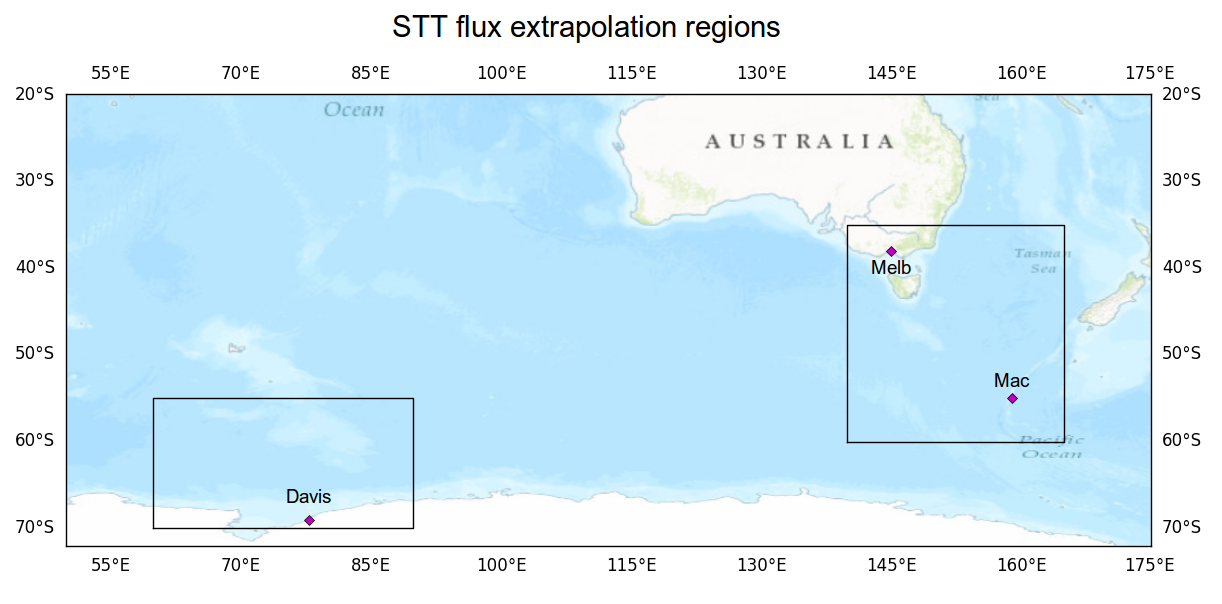
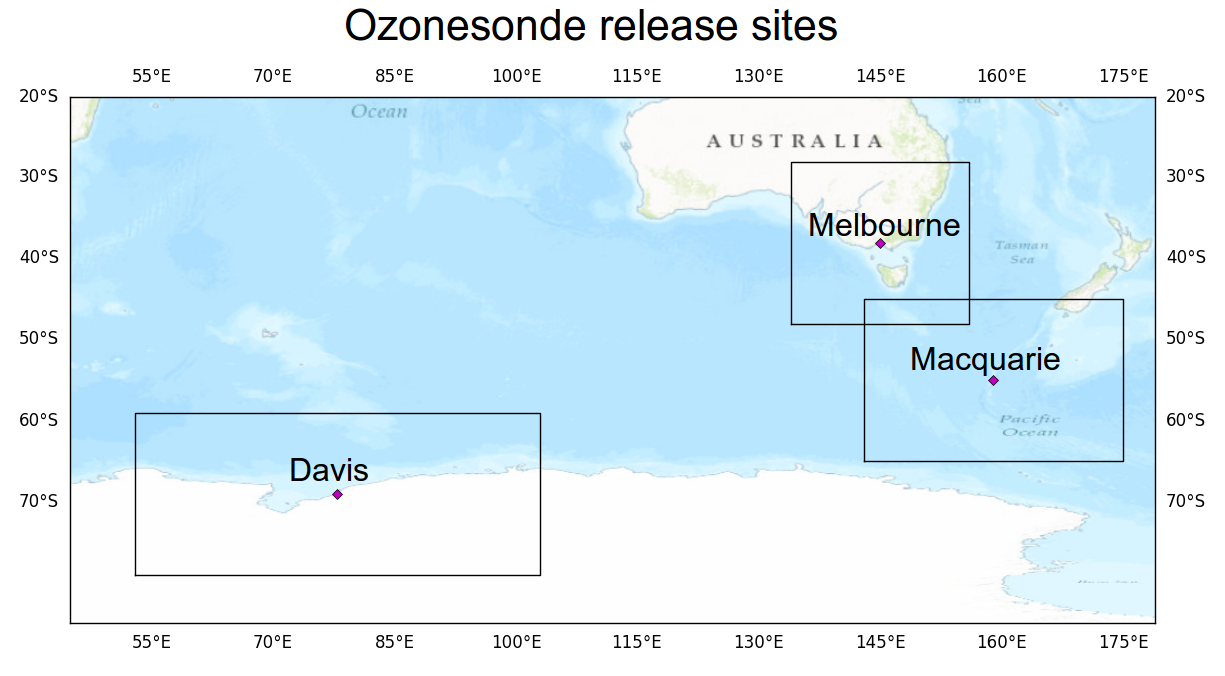
Updated Comparison region and description

Changed region(s): [[0.0, 0.0894, 0.9951, 0.9536], [0.2799, 0.0, 0.6841, 0.0596], [0.1866, 0.447, 0.2799, 0.5364]]

diff --git a/OzonePaper.tex b/OzonePaper.tex
@@ -134,7 +134,14 @@
     Standardised procedures are followed when constructing, transporting, and releasing the ozonesondes \url{http://www.ndsc.ncep.noaa.gov/organize/protocols/appendix5/}.
     Ozonesondes are estimated to provide around 2\% precision in the stratosphere, which improves at lower altitudes, and ozonesondes have been shown to be accurate to within 5\% when the correct procedures are followed \citep{Smit2007}.
     
-    Ozonesondes are launched approximately weekly from Melbourne (38$^{\circ}$ S, 145$^{\circ}$ E), Macquarie Island (55$^{\circ}$ S, 159$^{\circ}$ E) and Davis (69$^{\circ}$ S, 78$^{\circ}$ E). 
+    \begin{figure}
+    % Figure 1: Comparison region made in map script
+      \includegraphics[width=10cm]{figures/ComparisonRegions.png}
+      \caption{Ozonesonde release sites and the regions which will be used to examine STT effect on tropospheric ozone levels.}
+      \label{fig:ComparisonRegion}
+    \end{figure}
+    
+    Ozonesondes are launched approximately weekly from Melbourne (38$^{\circ}$ S, 145$^{\circ}$ E), Macquarie Island (55$^{\circ}$ S, 159$^{\circ}$ E) and Davis (69$^{\circ}$ S, 78$^{\circ}$ E), as shown in Fig. \ref{fig:ComparisonRegion}. 
     Melbourne, a major city in Victoria, Australia is in the far south eastern section of the Australian mainland, actual releases are north of the central business district in the Broadmeadows suburb.
     Macquarie island is isolated from the Australian mainland, situated in the remote southern ocean and unlikely to be affected by any local anthropogenic pollution events.
     Davis is on the coast of Antarctica and also unlikely to experience the effects of local pollution.
@@ -182,7 +189,7 @@
     %The tropopause is higher on days with an STT event at all during winter and spring at Davis.
 
     \begin{figure}[t] 
-    % Figure 1
+    % Figure 2
     % figure produced in seasonal_tropopause in Examine_stations.py
       \includegraphics[width=10cm]{figures/tpheights.png}
       \caption{%
@@ -198,7 +205,7 @@
     This seasonality at the high latitude sites is driven by a decrease in photochemical destruction under the reduced radiation conditions around polar night. % (TODO: read and cite S. Oltmans antarctic papers - re Andrews comment)... Can't find paper.
     
     \begin{figure}[t]
-      %Figure 2
+      %Figure 3
       %Created by seasonal_tropozone function in examine_stations.py
       \includegraphics[width=12.0cm]{figures/seasonaltropozone}
       \caption{ %
@@ -246,7 +253,7 @@
     STT events at altitudes below 4~km are removed to avoid surface pollution, and events within 0.5~km of the tropopause are removed to avoid false positives induced by the sharp transition to stratospheric air.
     
     \begin{figure}[t]
-      % Figure 3 created in getevents.pro, edited in inkscape
+      % Figure 4 created in getevents.pro, edited in inkscape
       \includegraphics[width=8.3cm]{figures/filtereg.png}
       \caption{ %
 	An example of the STT identification and flux estimation methods used in this work. 
@@ -538,19 +545,16 @@
       \label{fig:fluxsummaryabs}
     \end{figure}
     
-    \begin{figure}
-    % Comparison region made in map script
-      \includegraphics[width=10cm]{figures/ComparisonRegion.png}
-      \caption{Ozonesonde release sites and the regions used to examine STT effect on tropospheric ozone levels.}
-      \label{fig:ComparisonRegion}
-    \end{figure}
-    
-    Two regions are used to examine possible STT flux over a larger area using modeled tropospheric ozone concentrations.
+    Three regions are used to examine possible STT flux over a larger area using modeled tropospheric ozone concentrations.
     The regions are shown in Fig. \ref{fig:ComparisonRegion}.
-    The region containing Melbourne and Macquarie (M region) describes $\sim 5.87$ million square km, extending from 60$^{\circ}$ S to 35$^{\circ}$ S, and 140$^{\circ}$ E to 165$^{\circ}$ E, with an estimated STT ozone contribution of $\sim 2.3 \times 10^{17}$ molecules cm$^{-2}$ a$^{-1}$ or equivalently 1.1~Tg a$^{-1}$.
-    The region containing Davis (D region) describes $\sim 2.91$ million square km, extending from 70$^{\circ}$ S to 55$^{\circ}$ S, and 60$^{\circ}$ E to 90$^{\circ}$ E, with an estimated STT ozone contribution of $\sim 1.9 \times 10^{17}$ molecules cm$^{-2}$ a$^{-1}$ or equivalently 0.4~Tg a$^{-1}$.
+    The regions are centred at each site, and cover the site plus or minus ten degrees latitude, plus or minus 25, 16, and 11 degrees longitude for Davis, Macquarie Island, and Melbourne respectively. 
+    These boundaries provide a square (approximately) centred around each site with $\sim 2000$~km side lengths.
+    The regions thus describe $\sim TODO:X$ million square km, for Davis, Macquarie Island, and Melbourne respectively.
+    Davis has an estimated STT ozone contribution of TODO:$\sim X \times 10^{17}$ molecules cm$^{-2}$ a$^{-1}$ or equivalently TODO:X~Tg a$^{-1}$.
+    TODO: also numbers for Mac/Melb.
     
-    To determine the ozone column attributable to STT, we determine monthly averaged STT impact (\textit{I}) and the monthly mean tropospheric ozone column over the Southern Ocean (from the GEOS-Chem multi-year mean, $\Omega_{SO_{O_3}}$), expressed simply as flux$_i = \Omega_{SO_{O_3}} \times I$, where flux$_i$ is the STT flux per event in each month.
+    To determine the ozone column attributable to STT, we determine monthly averaged STT impact (\textit{I}) and the monthly mean tropospheric ozone column (from the GEOS-Chem multi-year mean, $\Omega_{Trop_{O_3}}$) over the regions described above.
+    This can be expressed simply as the STT flux per event (flux$_i$ in each month: flux$_i = \Omega_{SO_{O_3}} \times I$.
     Next we determine how many events are occuring per month by assuming only one event can occur at one time, and that no event is measured twice.
     These assumptions allow a simple estimate of events per month from the relatively sparse dataset, and as long as our regions of extrapolation aren't too large, should be true.
     The monthly likelihoods of STT is calculated from fraction of ozonesonde releases for which an STT event was detected, within each month, \textit{L}.
@@ -563,7 +567,7 @@
       \includegraphics[width=12.0cm]{figures/STT_extrapolation_MelbMac_B.png}
       \caption{%
 	(Top) The three quantities used to calculate the ozone flux from STT events over the region containing Macquarie Island and Melbourne.
-	The tropospheric ozone column $\Omega_{trop O_3}$ (black, left axis) is from GEOS-Chem, while the STT likelihood $L$ (magenta, right axis) and impact $I$ (teal, right axis) are from the ozonesonde measurements.
+	The tropospheric ozone column $\Omega_{Trop_{O_3}}$ (black, left axis) is from GEOS-Chem, while the STT likelihood $L$ (magenta, right axis) and impact $I$ (teal, right axis) are from the ozonesonde measurements.
 	The STT impact is multiplied by 4 to better show the seasonality.
 	(Bottom) Estimated contribution of STT to tropospheric ozone columns over the region, with range and line determined through the assumed possible longevity of STT events as described in the text.
 	Black line shows STT ozone flux if event lifetime is assumed to be 2.5 days.}
